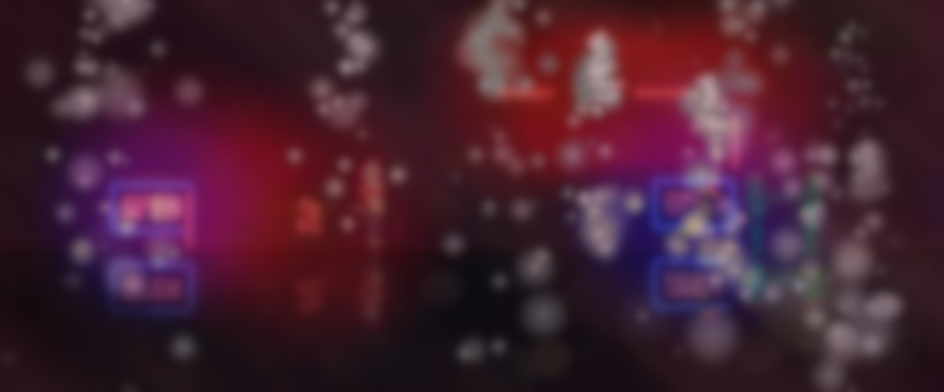
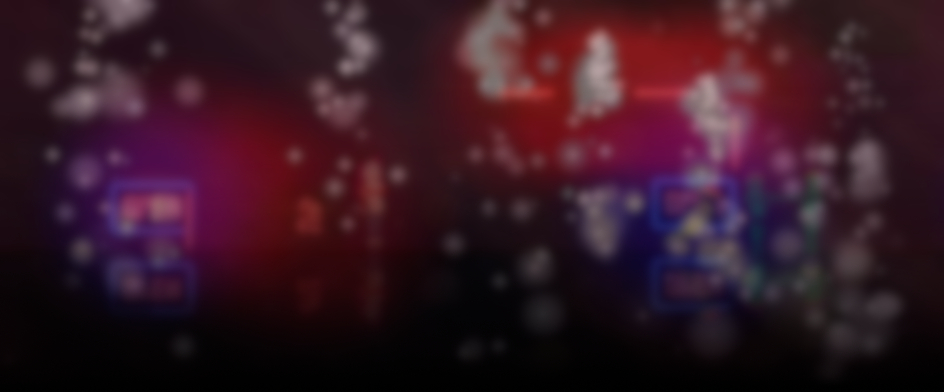
Added vertical navigation bar

diff --git a/index.html b/index.html
@@ -8,7 +8,7 @@ html,body {
   padding: 0;
 }
 body {
-  background-color: #000010;
+  background-color: #000000;
 }
 
 h1 {
@@ -24,8 +24,16 @@ h2 {
   font-family: 'Times New Roman', Times, serif;
   color: #f7f4f5;
   text-align: center;
-  margin: 6em;
-  padding: 40px;
+  /*margin: 2em;
+  padding: 40px;*/
+}
+h3 {
+  font-size: 12px;
+  font-family: monospace;
+  color: #f7f4f5;
+  text-align: left;
+  margin: 0;
+  padding: 4px;
 }
 p {
   font-size: 14px;
@@ -56,24 +64,31 @@ a {
   font-style: oblique;
 }
 
-#block {
+#blockH {
   position: sticky;
   top: 0;
   height: 2em;
   width: 100%;
   background: rgba(105, 0, 79, 0.212);
 }
+#blockV {
+  position: sticky;
+  top: 2em;
+  height: 50em;
+  width: 8em;
+  background: rgba(105, 0, 79, 0.212);
+}
 #venom-bite1 {
   position: absolute;
   top: 0;
-  /*background-size: 40em;*/
   z-index: -999;
 }
 </style>
 
 <body>
-    <img id = "venom-bite1" src = "venomBiteWebsite1.jpg" width="100%" height="600px">
-    <div id = block> <h1>General Info</h1></div>
+    <img id = "venom-bite1" src = "venomBiteWebsite1.jpg" width="100%" height="60%">
+    <div id = blockH> <h1>General Info</h1></div>
+    <div id = blockV> <h3><br>>General Info<br>Games<br>Contact</h3></div>
     <h2>William Djalal<br>Videogame Developer</h2>
 
   <h1>General Info</h1>
